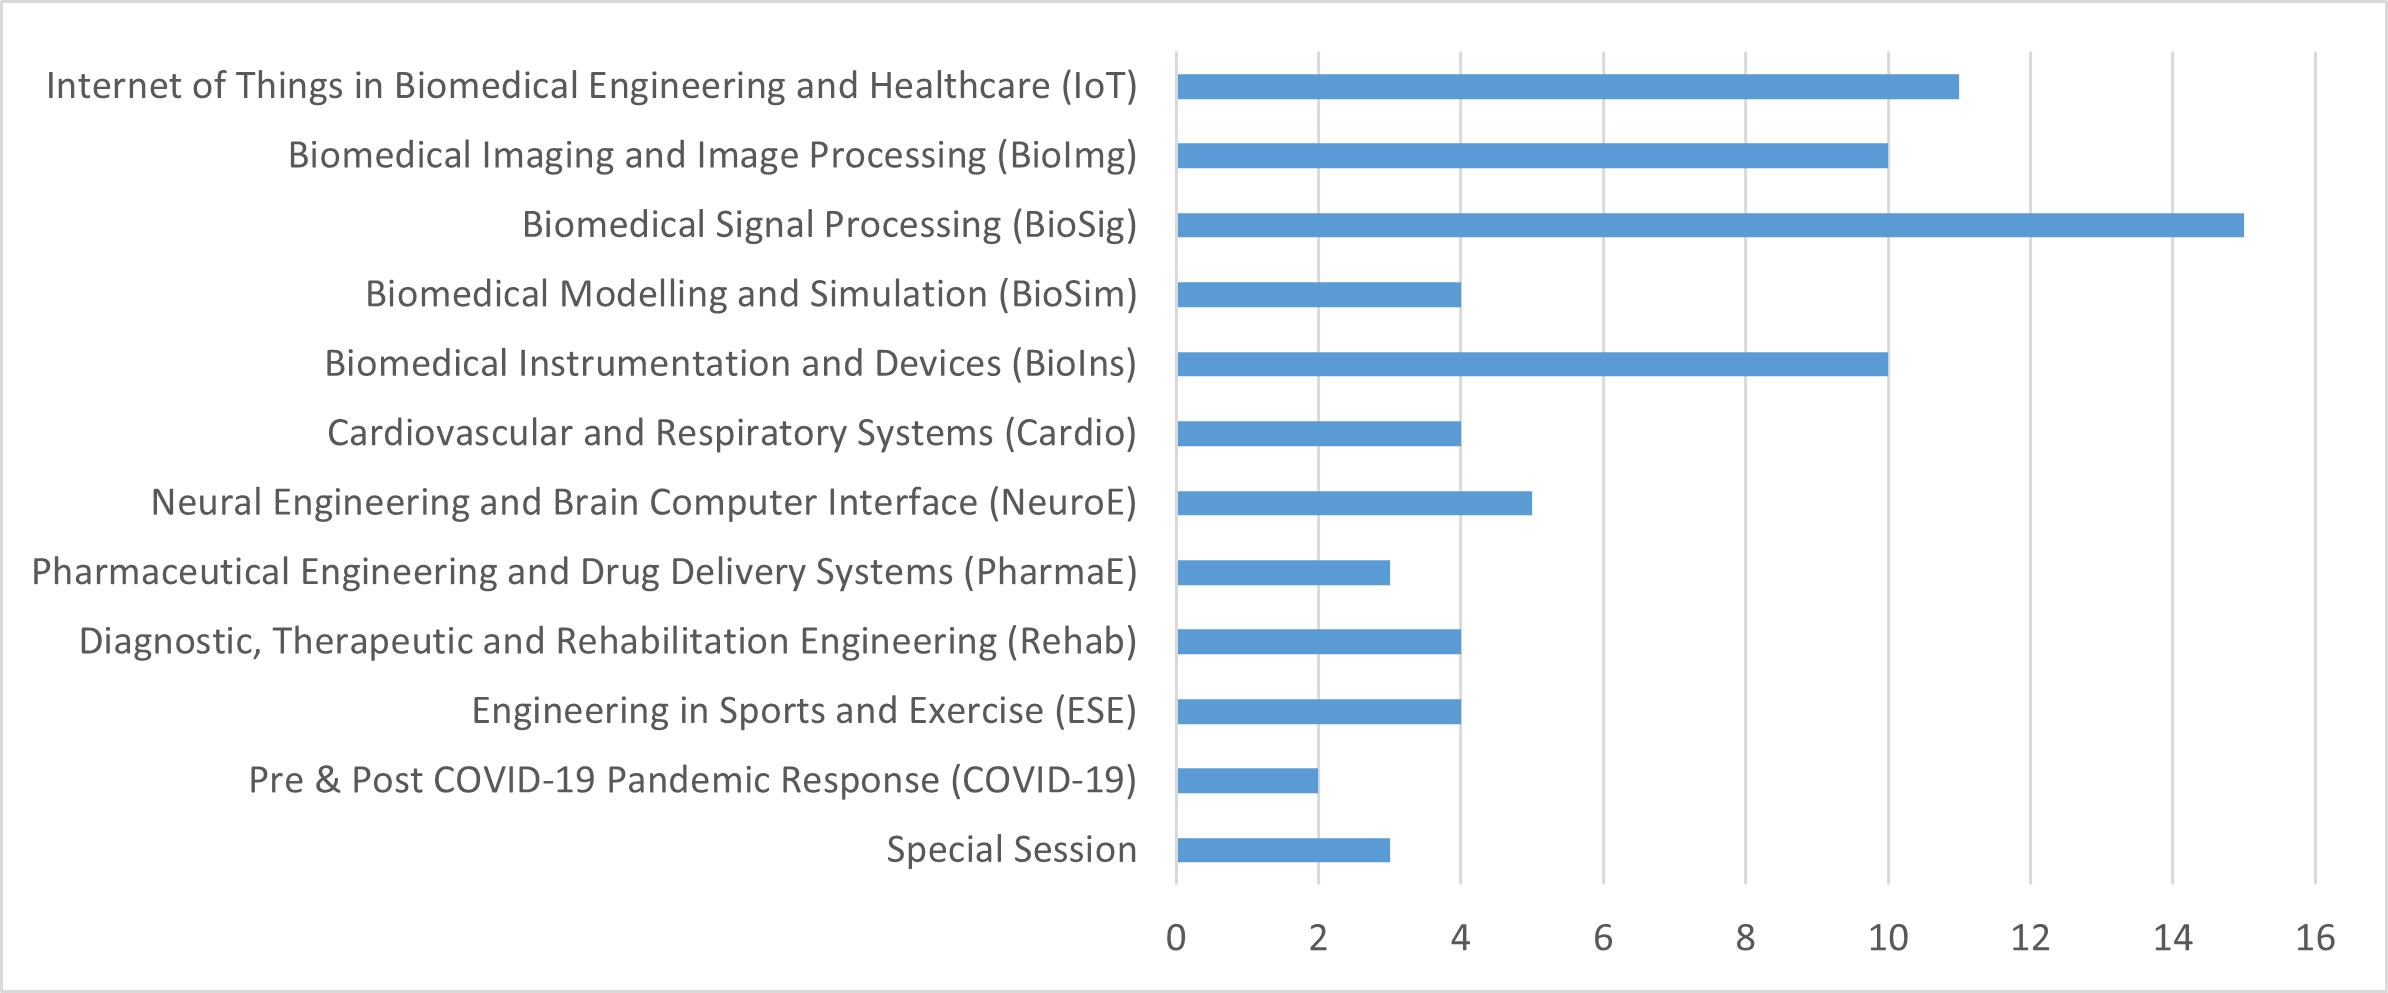
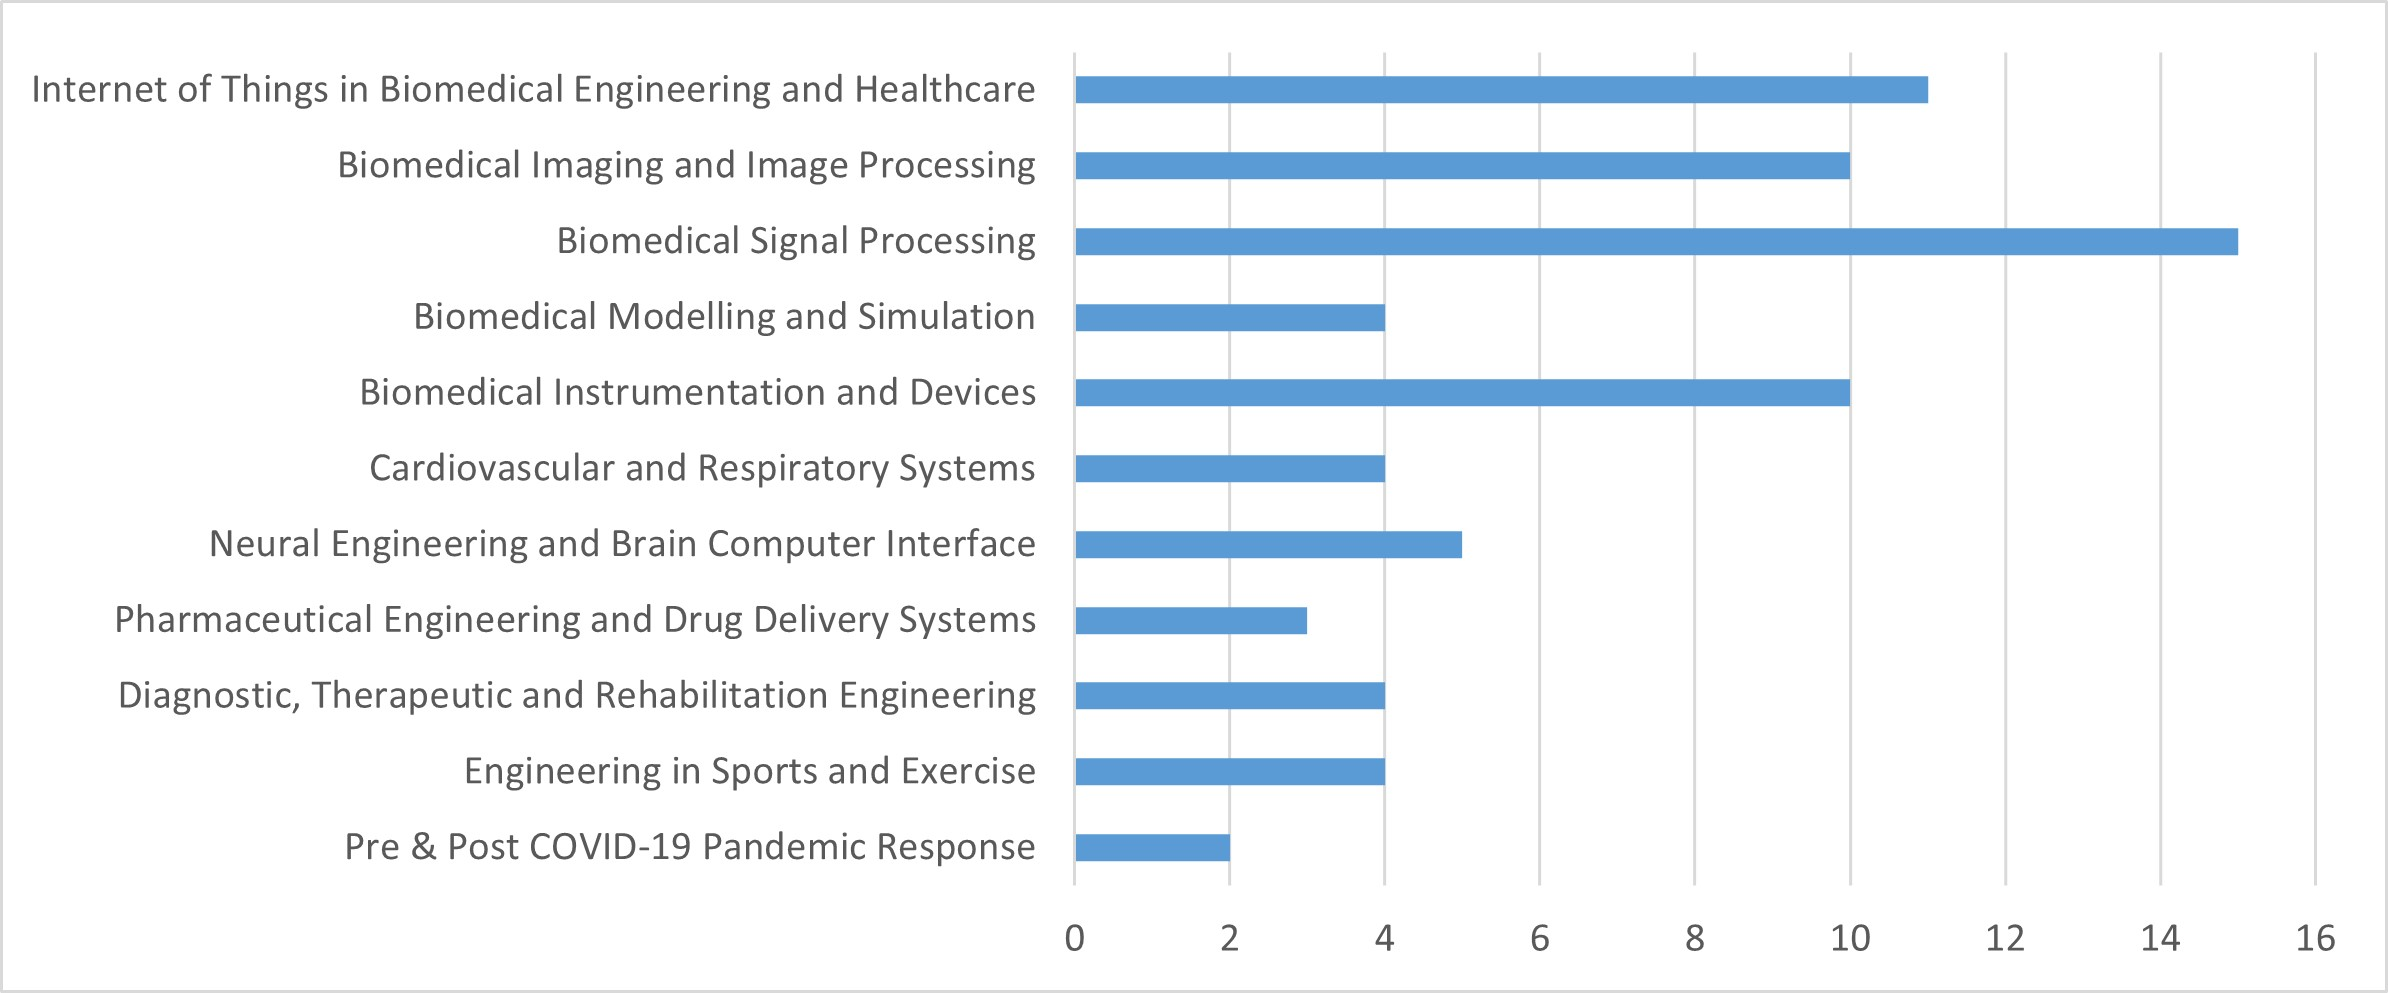
gather

diff --git a/_posts/2022-12-10-iecbes.md b/_posts/2022-12-10-iecbes.md
@@ -1,7 +1,7 @@
 ---
 title: "IECBES 2022 - Conference Highlights"
 subtitle: "First Time Attending a Conference Physically"
-date: 2022-12-09
+date: 2022-12-10
 categories: 
   - Summaries
 tags: 
@@ -18,30 +18,23 @@ toc_sticky: true
 ## 1. About IECBES 2022
 The IECBES stands for IEEE-EMBS Conference on Biomedical Engineering and Sciences, which is organized once every 2 years by The IEEE Engineering in Medicine and Biology Society (IEEE-EMBS) Malaysia Chapter. The 7th IECBES with the major theme of “Healthcare Personalisation: For the Future & Beyond” was held in Kuala Lumpur from December 7th to 9th December 2022. 
 
-Consistent with the theme of “Healthcare Personalisation: For the Future & Beyond”, the conference provided 6 keynote lectures and 7 invited speeches from leading academic scientists, along with 75 accepted papers, categorized into 12 sessions, including a special session on “Trends in Smarter Healthcare: AI for Images”. Figure 1 illustrates the number of papers in each session. 
+Consistent with the theme of “Healthcare Personalisation: For the Future & Beyond”, the conference provided 6 keynote lectures and 7 invited speeches from leading academic scientists, along with 75 accepted papers, categorized into 11 tracks and one special session. Figure 1 illustrates the number of papers in each track. 
 
 <figure class="align-center">
   <img src="{{ site.url }}{{ site.baseurl }}/assets/images/iecbes/numbers.jpg">
-  <figcaption>Figure 1. Number of Accepted Papers in Each Session. </figcaption>
+  <figcaption>Figure 1. Number of Accepted Papers in Each Track. </figcaption>
 </figure>
 
-**Insight 1**: As we can observe from Figure 1, BioSig is the most attractive session, followed by IoT, BioImg, and BioIns. Might be because we overcame the pandemic, the session COVID-19 is less attractive and only has 2 accepted papers. 
+**Insight 1**: As we can observe from Figure 1, Biomedical Signal Processing is the most attractive track, followed by Internet of Things in Biomedical Engineering and Healthcare, Biomedical Imaging and Image Processing, and Biomedical Instrumentation and Devices. Might be because we overcame the pandemic, the track Pre & Post COVID-19 Pandemic Response is less attractive and only has 2 accepted papers. 
 
-## 2. Conference Details
-In this section, I will briefly introduce some outstanding papers in such sessions that I understand including BioImg, BioSig, Cardio, COVID-19, and Special Session. 
+## 2. Outstanding Papers
+In this section, I will briefly introduce some outstanding papers that I found considerable. These papers also are in tracks I am interested in such as Biomedical Imaging and Image Processing, Biomedical Signal Processing, Cardiovascular and Respiratory Systems, Pre & Post COVID-19 Pandemic Response, and Special Session - Trends in Smarter Healthcare: AI for Images. Some of these papers have been recognized as the Top 10 best papers this year. 
 
-### BioImg Session
 **Reconstruction of Fetal Head Surface From a Few 2D Ultrasound Images Tracked in 3D Space**<br>
 by *Sandra Marcadent; Johann Hêches; Julien Favre; David Desseauve; Jean-Philippe Thiran*<br>
-*Abstract:*<br>
+in *Biomedical Imaging and Image Processing*<br>
 > In this pilot study, we present a novel method to reconstruct the fetal head surface, from a small set of tracked 2D ultrasound images around the transthalamic brain plane. Indeed, 3D visualization of the fetus's prominent skull at the beginning of birth could help the obstetrician in decision-making to overcome dystocia, a delivery complication that results in labor obstruction. The use of 2D ultrasound images tracked in 3D would allow superimposing of the fetal head model to other reconstructed organs. However, fetal motion may affect the consistency of ultrasound images, in particular, if many frames are needed. Moreover, the fetal head is large at late pregnancy stages which causes occlusions in the ultrasound images. We thus propose and compare the performance of two different methods to reconstruct a fetal head surface from only 10 focused frames. Our best method achieves 1.6 mm of average reconstruction error in simulation based on an MRI dataset of 7 patients at 34-36 weeks of pregnancy. 
 
-### BioSig Session
-
-### Cardio Session
-
-### COVID-19 Session
-
-### Special Session
-
 ## 3. Conclusion
+
+Stay tuned for more content ...
